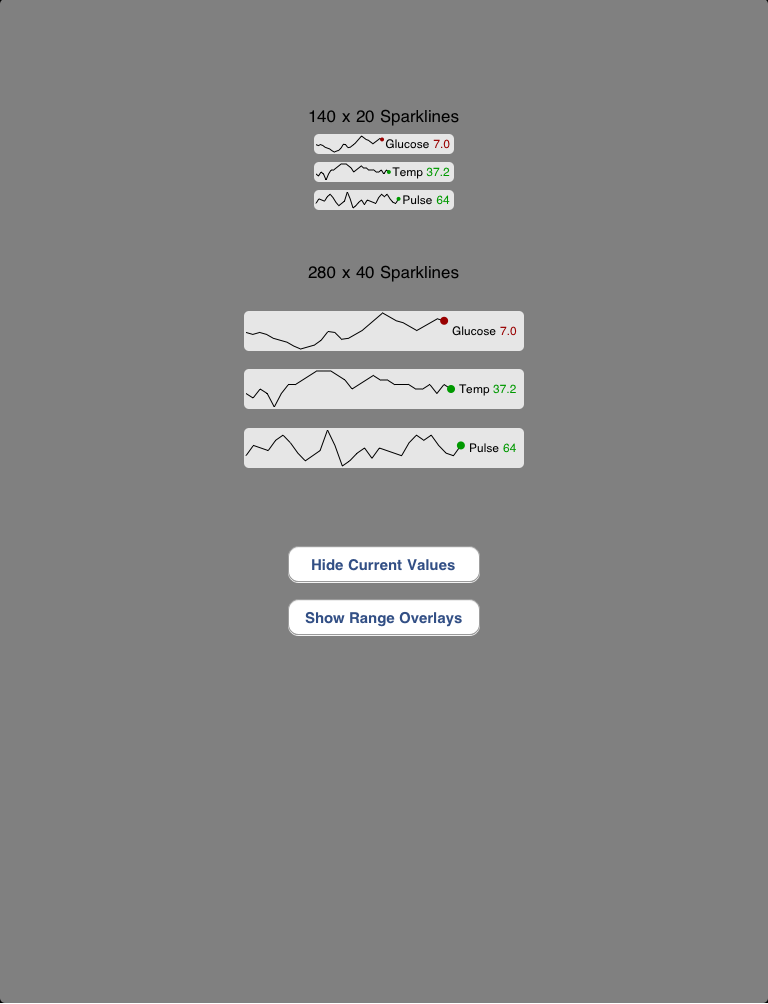
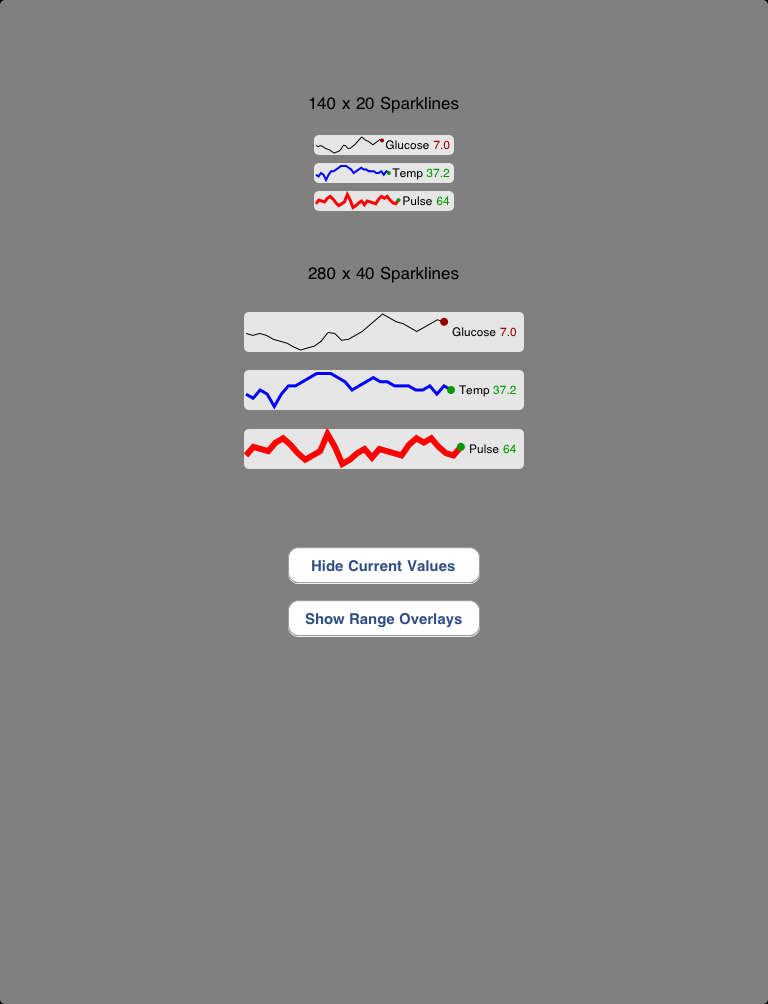
Drawing code now allows for pen width.
A larger pen width is now allowed for when calculating the graph points.
This stops any drawing outside the graph area, or clipping of the graph.
Also changed the small sparkline demos to have different pen colours and
widths similar to the large versions. Updated the launch images.

diff --git a/Sparklines/ASBSparkLineView.m b/Sparklines/ASBSparkLineView.m
@@ -54,16 +54,16 @@ static const CGFloat  CONSTANT_GRAPH_BUFFER = 0.1f;     // fraction to move the 
 #define DEFAULT_CURRENTVALUE_COL blueColor              // default current value colour (including the anchor marker)
 #define DEFAULT_OVERLAY_COL      colorWithRed:0.8f green:0.8f blue:0.8f alpha:1.0   // default overlay colour (light gray)
 #define PEN_COL                  blackColor             // default graph line colour (black)
-#define GRAPH_PEN_WIDTH_VALUE    1.0f
+#define DEFAULT_GRAPH_PEN_WIDTH  1.0f
 
-static const CGFloat  GRAPH_PEN_WIDTH       = GRAPH_PEN_WIDTH_VALUE;     // pen width for the graph line (in *pixels*)
+static const CGFloat  GRAPH_PEN_WIDTH       = DEFAULT_GRAPH_PEN_WIDTH;     // pen width for the graph line (in *pixels*)
 
 // no user-tweakable bits beyond this point...
 
 
 #pragma mark Private Interface
 
-static inline float yPlotValue(float maxHeight, float yInc, float val, float minVal);
+static inline float yPlotValue(float maxHeight, float yInc, float val, float minVal, float penWidth);
 
 // private interface section
 @interface ASBSparkLineView()
@@ -393,11 +393,11 @@ static inline float yPlotValue(float maxHeight, float yInc, float val, float min
         // set the graph location of the overlay upper and lower limits, if defined
         if (self.rangeOverlayUpperLimit != nil) {
             overlayOrigin = yPlotValue(fullHeight, sparkHeight / (graphMax - graphMin),
-                                       [self.rangeOverlayUpperLimit floatValue], graphMin);
+                                       [self.rangeOverlayUpperLimit floatValue], graphMin, self.penWidth);
         }
         if (self.rangeOverlayLowerLimit != nil) {
             float lowerY = yPlotValue(fullHeight, sparkHeight / (graphMax - graphMin),
-                                       [self.rangeOverlayLowerLimit floatValue], graphMin);
+                                       [self.rangeOverlayLowerLimit floatValue], graphMin, self.penWidth);
             overlayHeight = lowerY - overlayOrigin;
         }
 
@@ -410,8 +410,8 @@ static inline float yPlotValue(float maxHeight, float yInc, float val, float min
     // X scale is set to show all values
     const CGFloat xinc = sparkWidth / ([self.dataValues count] - 1);
     
-    // Y scale is auto-zoomed to specified limits
-    CGFloat yInc = sparkHeight / (graphMax - graphMin);
+    // Y scale is auto-zoomed to specified limits (allowing for pen width)
+    CGFloat yInc = (sparkHeight - self.penWidth) / (graphMax - graphMin);
     
     // ensure the pen is a suitable width for the device we are on (i.e. we use *pixels* and not points)
     if (self.penWidth) {
@@ -437,10 +437,10 @@ static inline float yPlotValue(float maxHeight, float yInc, float val, float min
 
         // warning and zero value for any non-NSNumber objects
         if ([obj isKindOfClass:[NSNumber class]]) {
-            ypos = yPlotValue(fullHeight, yInc, [obj floatValue], graphMin);
+            ypos = yPlotValue(fullHeight, yInc, [obj floatValue], graphMin, self.penWidth);
         } else {
             NSLog(@"non-NSNumber object (%@) found in data (index %d), zero value used", [[obj class] description], idx);
-            ypos = yPlotValue(fullHeight, yInc, 0.0f, graphMin);
+            ypos = yPlotValue(fullHeight, yInc, 0.0f, graphMin, self.penWidth);
         }
 
         if (idx > 0)
@@ -456,7 +456,7 @@ static inline float yPlotValue(float maxHeight, float yInc, float val, float min
     if (self.showCurrentValue) {
 
         const CGFloat markX = (xinc * ([self.dataValues count]-1)) + GRAPH_X_BORDER;
-        const CGFloat markY = yPlotValue(fullHeight, yInc, [self.dataCurrentValue floatValue], graphMin);
+        const CGFloat markY = yPlotValue(fullHeight, yInc, [self.dataCurrentValue floatValue], graphMin, self.penWidth);
 
         // calculate the accent marker size, with limits
         CGFloat markSize = fullHeight * DEF_MARKER_SIZE_FRAC;
@@ -473,8 +473,8 @@ static inline float yPlotValue(float maxHeight, float yInc, float val, float min
 
 
 // returns the Y plot value, given the limitations we have
-static inline float yPlotValue(float maxHeight, float yInc, float val, float offset) {
-    return maxHeight - ((yInc * (val - offset)) + GRAPH_Y_BORDER);
+static inline float yPlotValue(float maxHeight, float yInc, float val, float offset, float penWidth) {
+    return maxHeight - ((yInc * (val - offset)) + GRAPH_Y_BORDER + (penWidth / 2.0f));
 }
 
 @end

diff --git a/Sparklines/SparklinesViewController.m b/Sparklines/SparklinesViewController.m
@@ -148,12 +148,16 @@ const float heartRateMaxLimit = 85;
     self.sparkLineView2.dataValues = m_temperatureData;
     self.sparkLineView2.labelText = @"Temp";
     self.sparkLineView2.currentValueColor = darkGreen;
-    
+    self.sparkLineView2.penColor = [UIColor blueColor];
+    self.sparkLineView2.penWidth = 2.0f;
+
     self.sparkLineView3.dataValues = m_heartRateData;
     self.sparkLineView3.labelText = @"Pulse";
     self.sparkLineView3.currentValueColor = darkGreen;
     self.sparkLineView3.currentValueFormat = @"%.0f";
-    
+    self.sparkLineView3.penColor = [UIColor redColor];
+    self.sparkLineView3.penWidth = 3.0f;
+
     // large ones are 4 - 6
     self.sparkLineView4.dataValues = m_glucoseData;
     self.sparkLineView4.labelText = @"Glucose";
